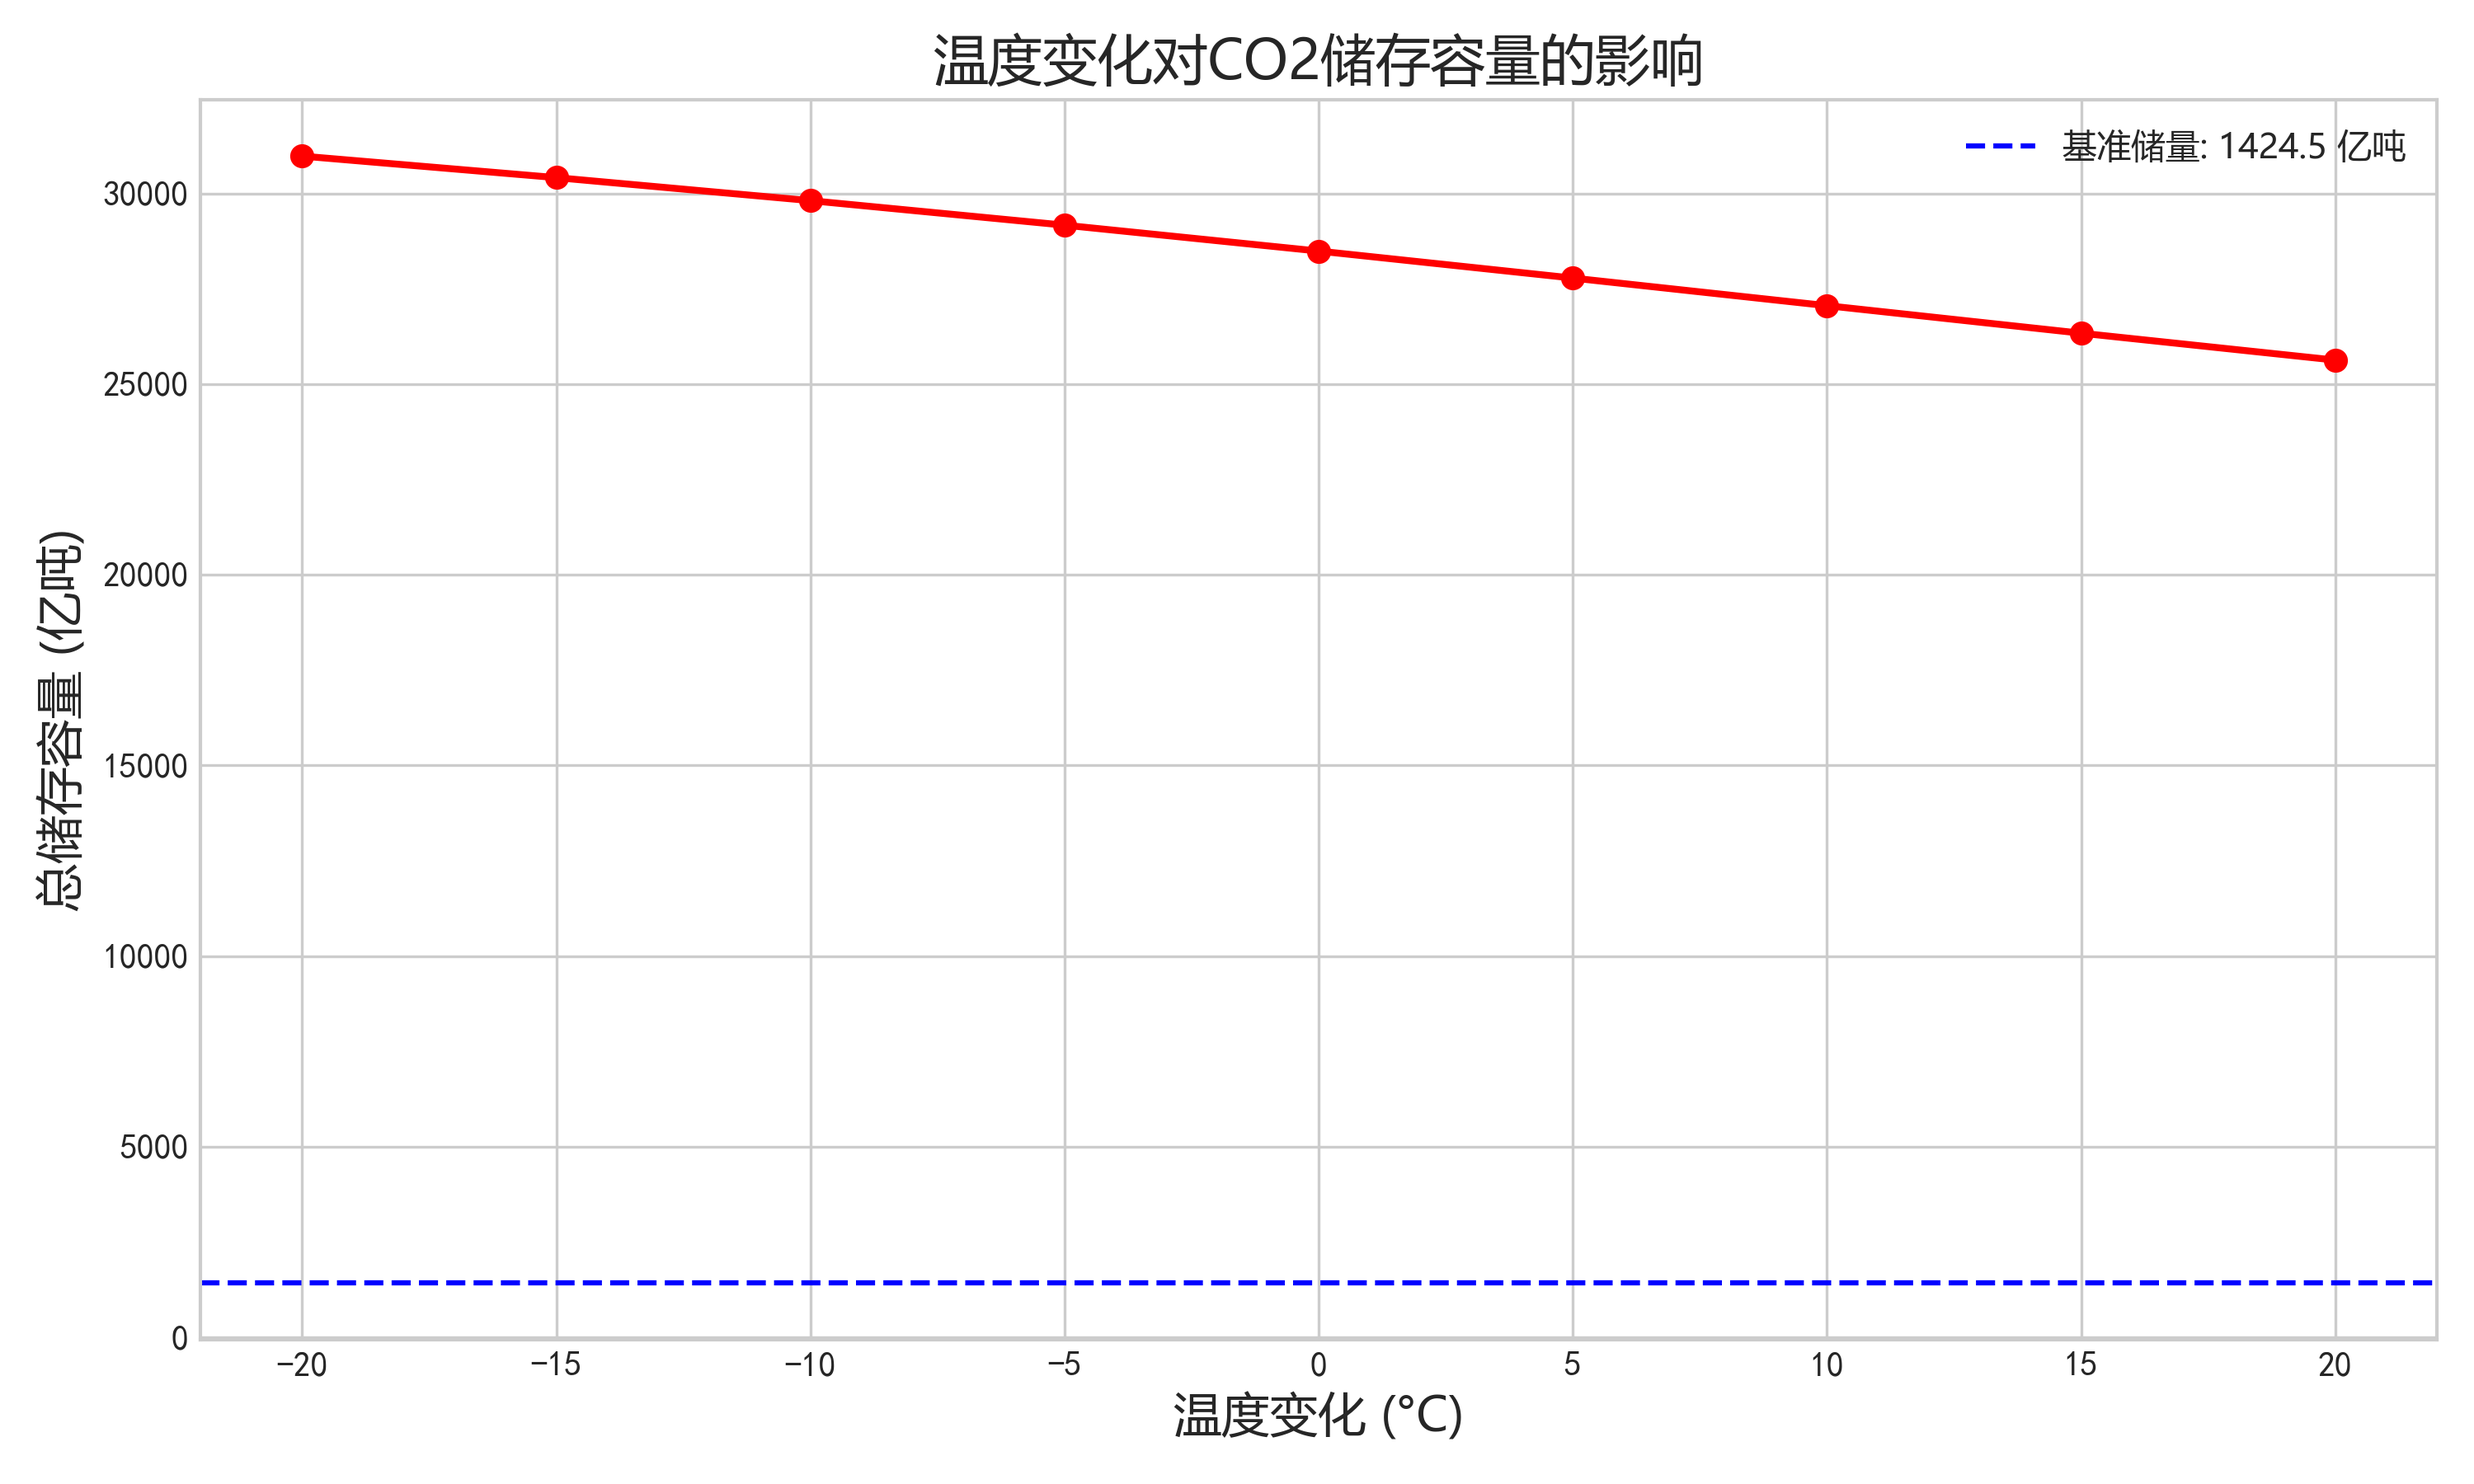
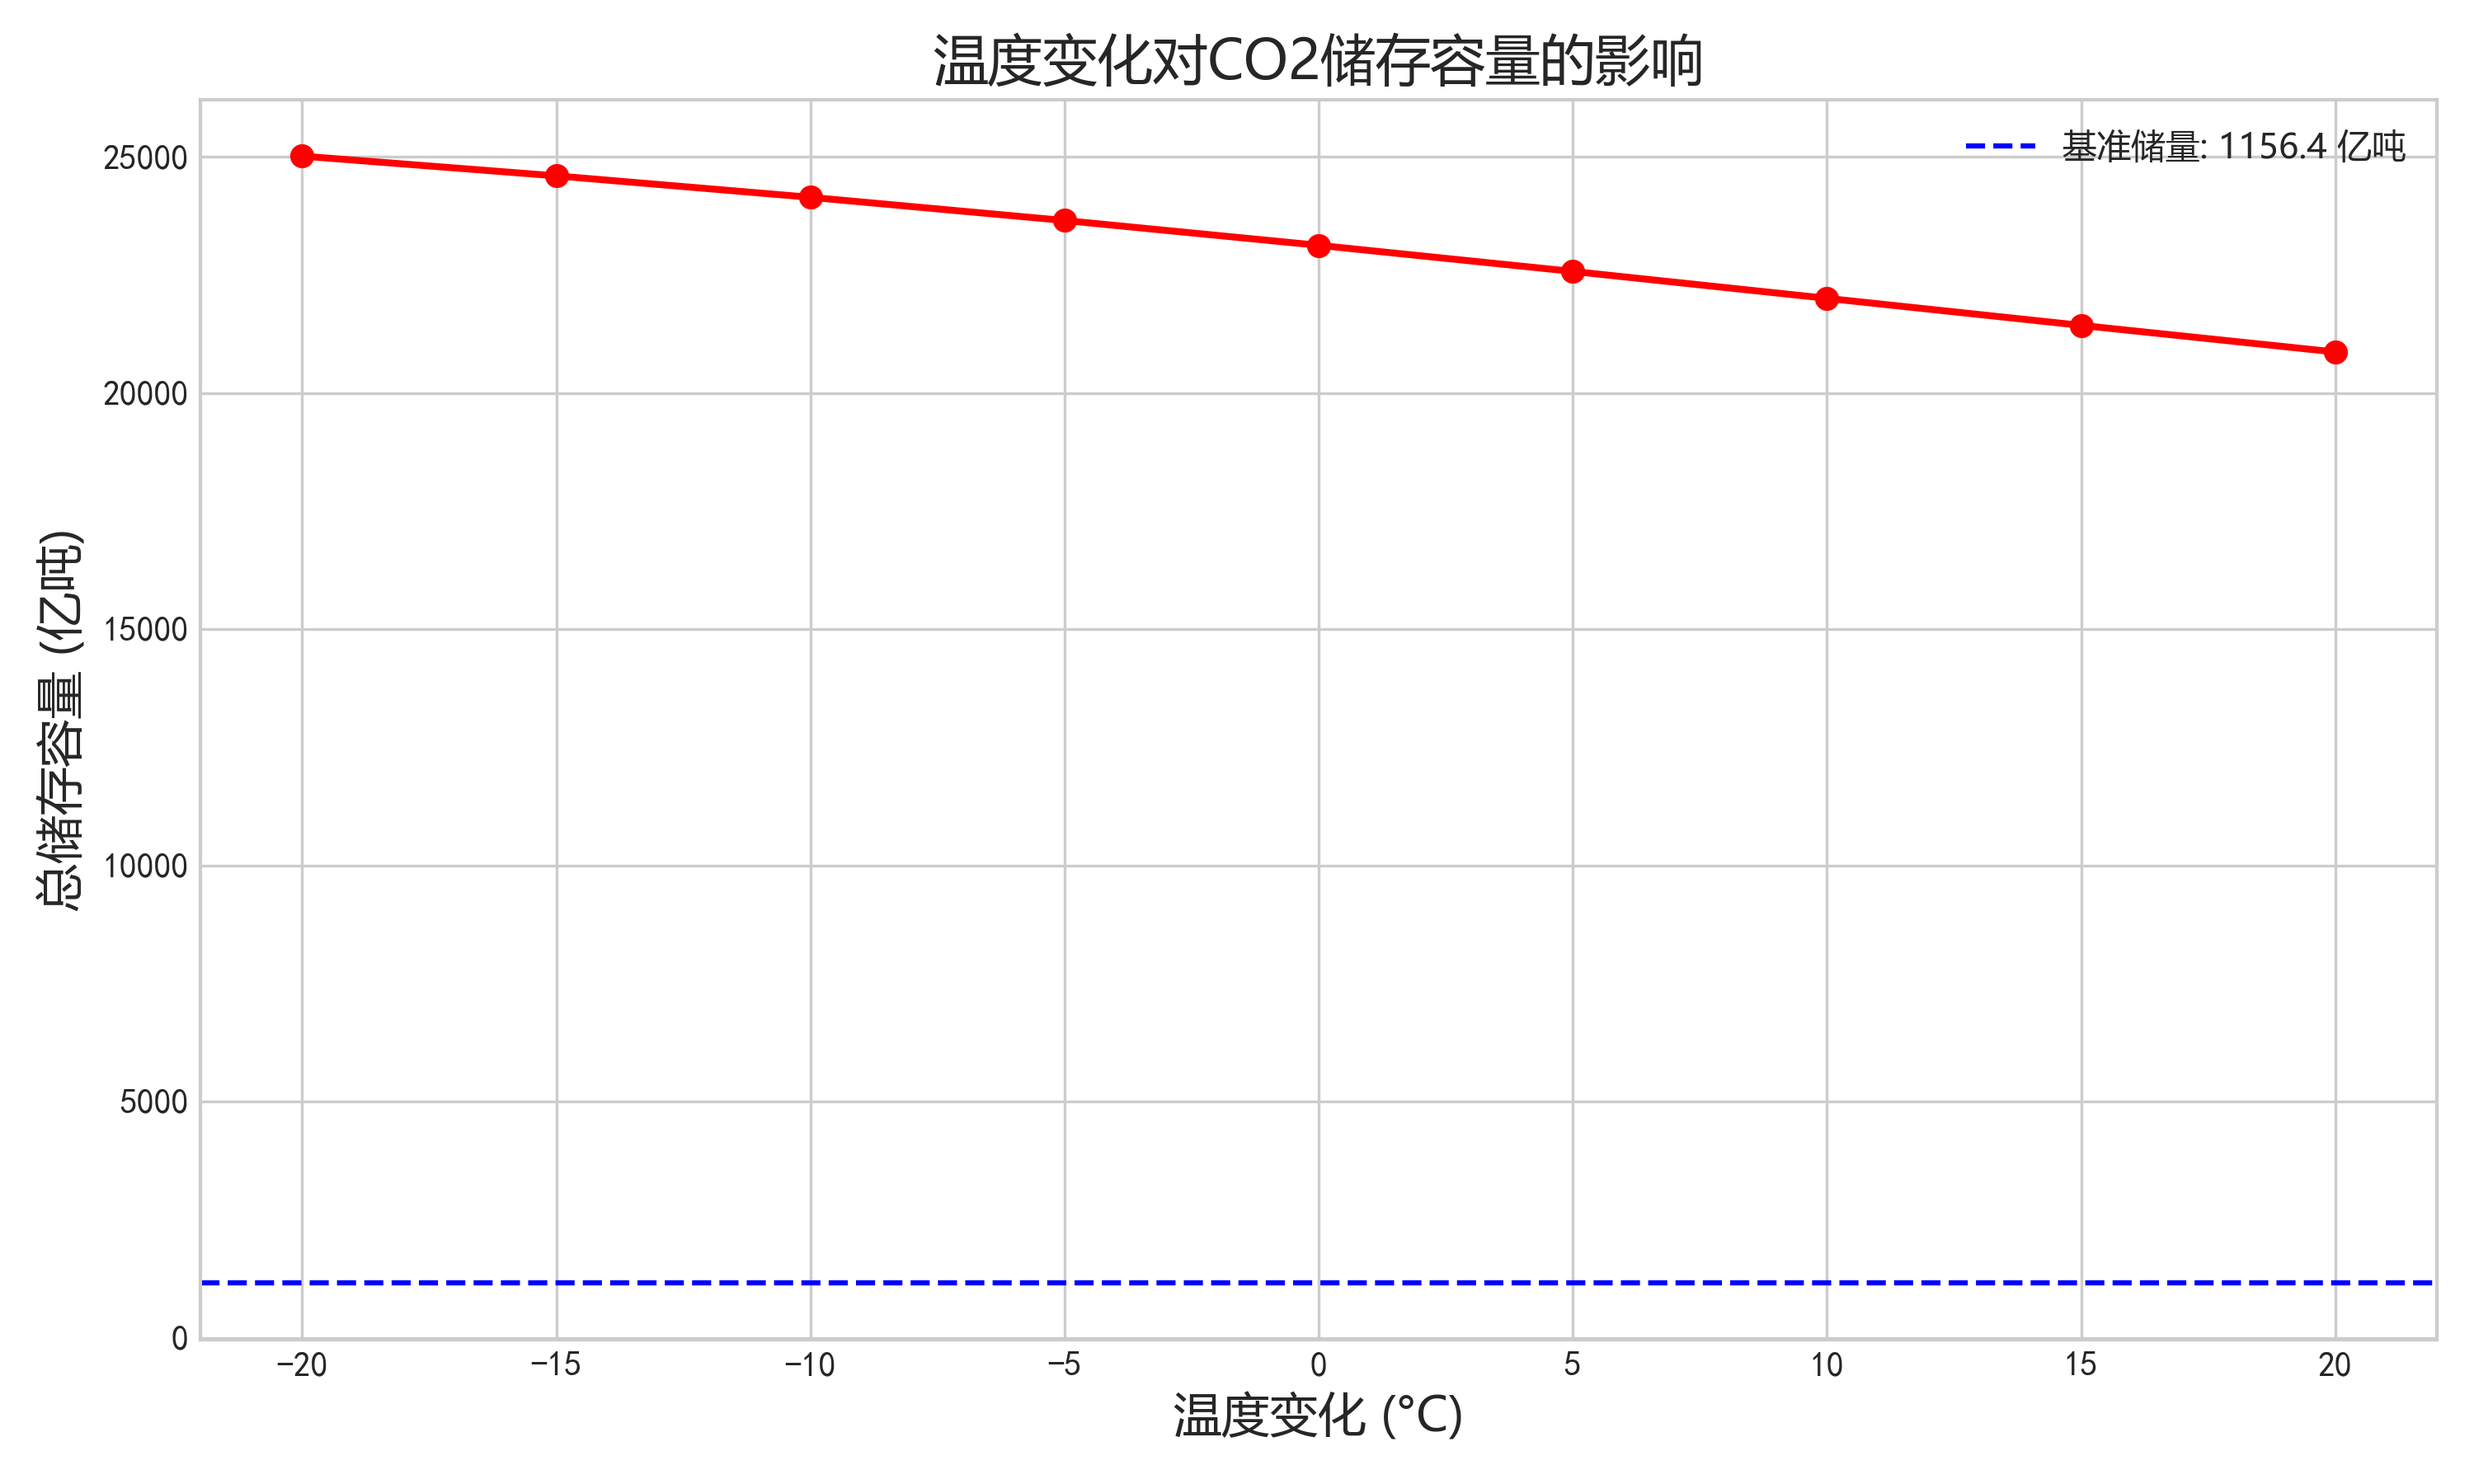
1k亿吨

diff --git a/solution.py b/solution.py
@@ -208,7 +208,7 @@ def estimate_co2_efficiency_factor(depth, porosity, temperature, pressure, salin
     考虑深度、孔隙度、温度、压力和盐度的综合影响
     """
     # 基础效率因子（行业经验值通常在0.2-0.6之间）
-    base_factor = 0.35
+    base_factor = 0.25
     
     # 深度调整（深度越大，压力越大，CO2越容易压缩进孔隙）
     depth_adjustment = 0.08 * np.tanh(depth / 3000)
